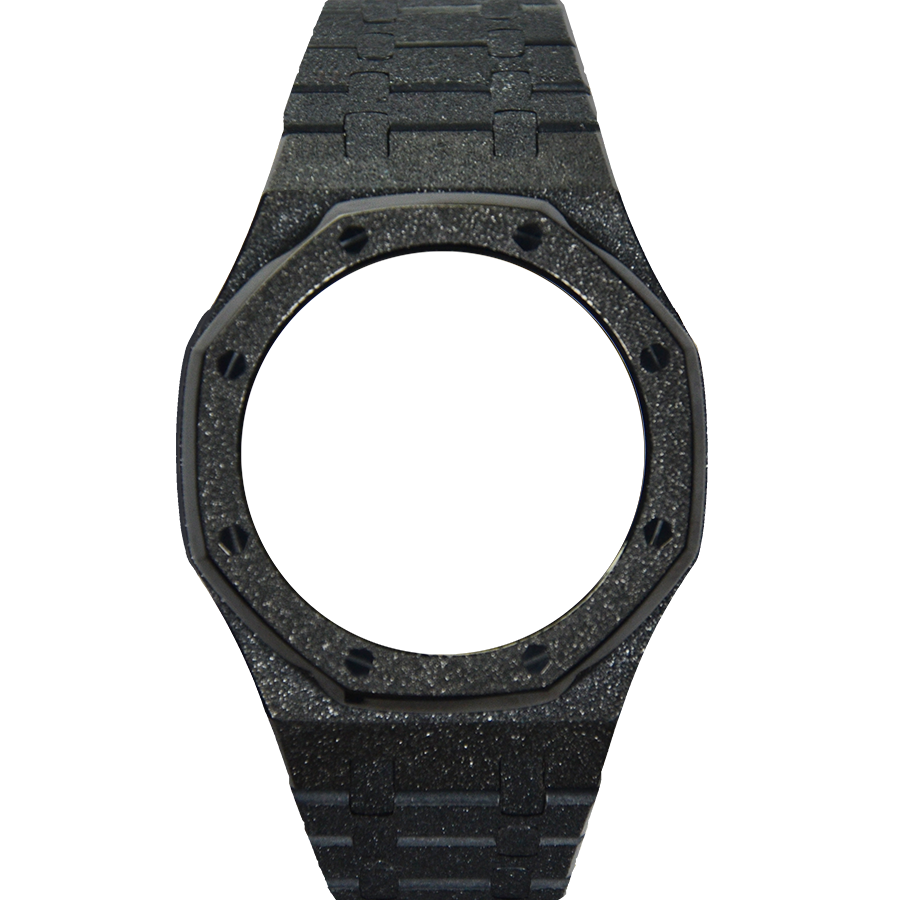
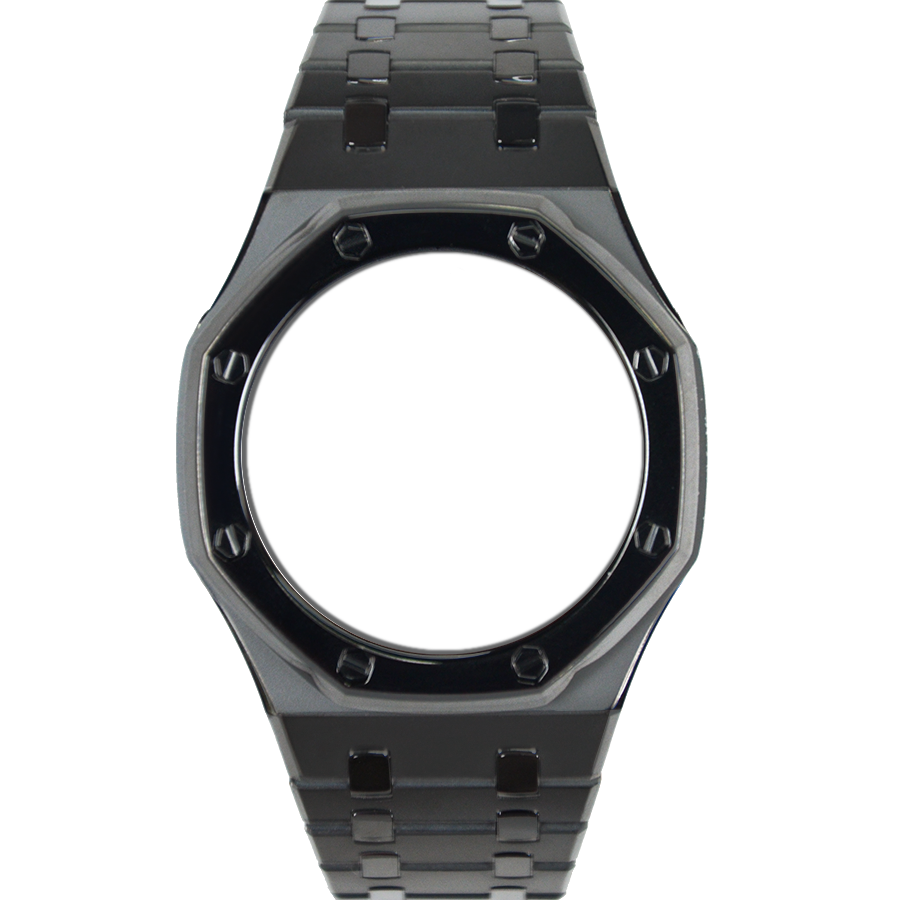
123

Changed region(s): [[0.1867, 0.0, 0.8089, 1.0]]

diff --git a/main_konfigurator/index.html b/main_konfigurator/index.html
@@ -350,7 +350,7 @@
                     >
                       <img
                         id="metal_body_watch"
-                        src="https://raw.githubusercontent.com/sku757/konfig/main/image/metal_body/metal_body6.png"
+                        src="https://raw.githubusercontent.com/sku757/konfig/main/image/metal_body/metal_body1.png"
                         alt=""
                       />
                     </div>
@@ -372,7 +372,7 @@
                     >
                       <img
                         id="straps_watch"
-                        src="https://raw.githubusercontent.com/sku757/konfig/main/image/straps/straps5.png"
+                        src="https://raw.githubusercontent.com/sku757/konfig/main/image/straps/straps1.png"
                         alt=""
                       />
                     </div>
@@ -381,7 +381,7 @@
                     <div class="main_watch_div metal_strap_option_selected">
                       <img
                         id="metal_straps_watch"
-                        src="https://raw.githubusercontent.com/sku757/konfig/main/image/metal_straps/metal_straps11.png"
+                        src="https://raw.githubusercontent.com/sku757/konfig/main/image/metal_straps/metal_straps1.png"
                         alt=""
                       />
                     </div>
@@ -390,7 +390,7 @@
                     <div class="main_watch_div">
                       <img
                         id="circles_watch"
-                        src="https://raw.githubusercontent.com/sku757/konfig/main/image/circles/circles4.png"
+                        src="https://raw.githubusercontent.com/sku757/konfig/main/image/circles/circles19.png"
                         alt=""
                       />
                     </div>

diff --git a/main_konfigurator/js/main.js b/main_konfigurator/js/main.js
@@ -13,7 +13,7 @@ const defaultValues = {
     displays: 1,
     metal_body: 6,
     straps: 5,
-    metal_straps: 11,
+    metal_straps: 1,
     circles: 4,
     arrows: 8,
     clock_points: 9,
@@ -238,7 +238,7 @@ const groupsCountItems = {
     metal_body: 17,
     transparent_body: 4,
     straps: 13,
-    metal_straps: 18,
+    metal_straps: 19,
     circles: 19,
     arrows: 16,
     clock_points: 20,

diff --git a/main_konfigurator/responsive.css b/main_konfigurator/responsive.css
@@ -12,7 +12,7 @@
     right: 60px;
   }
   .fixed-top-wrapper{
-    width: 90% !important;
+    width: 50% !important;
   }
 }
 @media (max-width: 1280px) {
